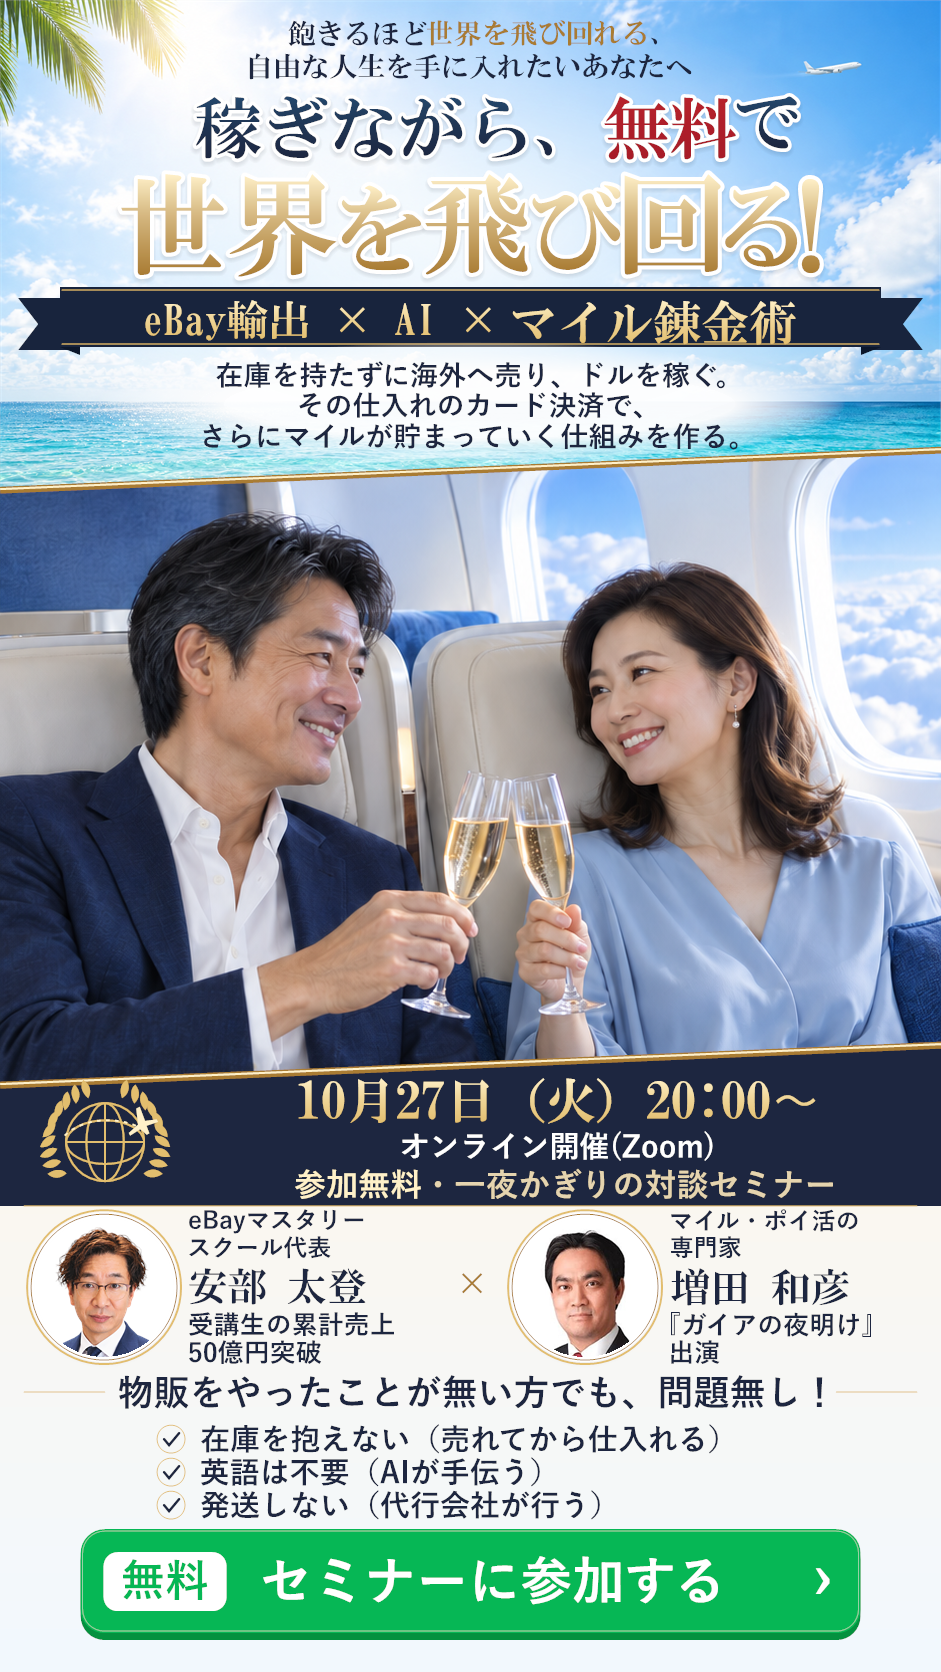
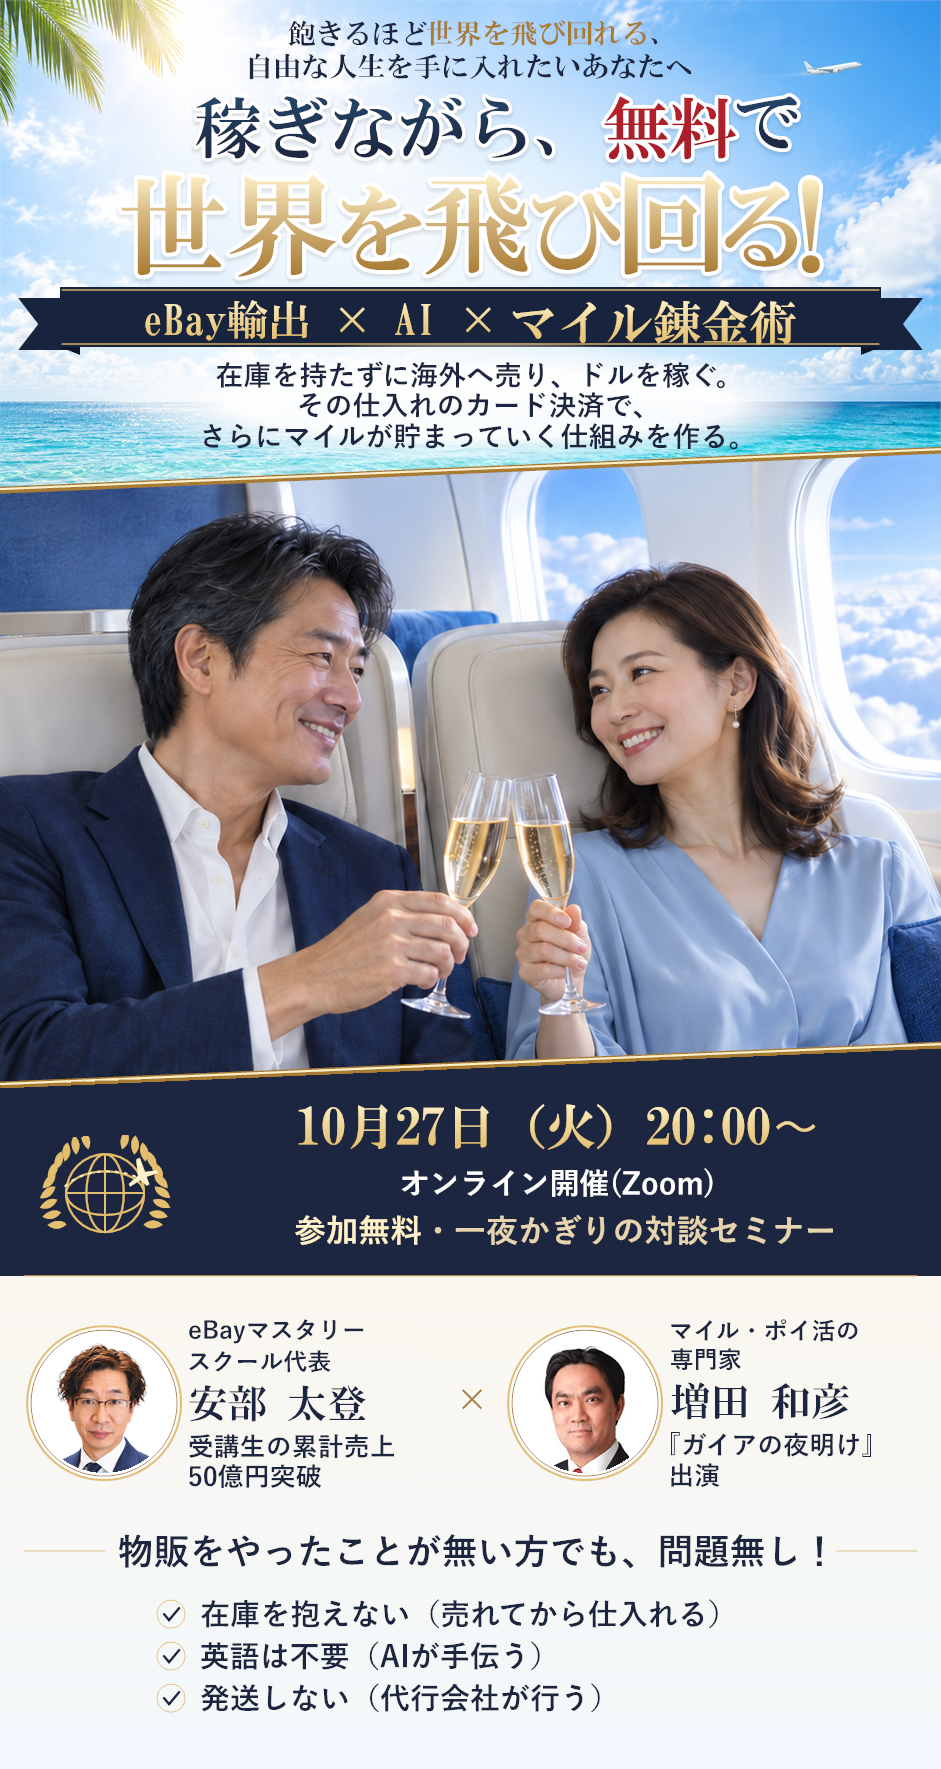
ebay-seminar-lp-2: FV下部の余白を広げ、FV内のボタンを削除・フォームのボタンをFVボタンと同じ幅に

diff --git a/ebay-seminar-lp-2/index.html b/ebay-seminar-lp-2/index.html
@@ -1,12 +1,12 @@
 <!doctype html><html lang="ja"><head><meta charset="utf-8"><meta name="viewport" content="width=device-width, initial-scale=1"><meta name="robots" content="noindex, nofollow"><title>稼ぎながら無料で世界を飛び回る！eBay輸出×AI×マイル錬金術</title><link rel="stylesheet" href="https://fonts.googleapis.com/css2?family=Shippori+Mincho+B1:wght@700;800&amp;family=Klee+One:wght@600&amp;family=Noto+Sans+JP:wght@400&amp;display=swap"><style>
 *{box-sizing:border-box}html{scroll-behavior:smooth}body{margin:0;color:#133858;background:#e8e5df;font-family:"Yu Gothic","Hiragino Kaku Gothic ProN",sans-serif}body.v2{background:#dfe5ec;color:#1d2640}body.v3{background:#e4eef1;color:#1b2f5b}
-.lp{width:100%;max-width:800px;margin:0 auto;background:#f2f8fd;padding-bottom:calc(110px + env(safe-area-inset-bottom,0px))}img{display:block;width:100%;height:auto}.hero{position:relative}.fv-link{position:absolute;display:block;border-radius:18px}.fv-link:focus-visible{outline:3px solid #133858;outline-offset:3px}
-.cta{background:#f2f8fd;padding:24px 16px 28px;scroll-margin-top:16px}.cta-card{padding:28px 16px 24px;background:linear-gradient(145deg,#fcf8f5,#f4f0e7);border:1px solid #c8a759;box-shadow:0 5px 18px #1338580b}.cta h2{font:700 22px/1.65 "Shippori Mincho B1","Yu Mincho","Hiragino Mincho ProN",serif;text-align:center;margin:0 0 14px;text-wrap:balance}.note{font-family:"Noto Sans JP","Yu Gothic","Hiragino Kaku Gothic ProN",sans-serif;font-weight:400;font-size:12px;line-height:1.85;margin:10px 0;overflow-wrap:break-word}.cta .intro,.cta .free{text-align:center}.cta form{margin:20px 0 14px}.cta input{display:block;width:100%;min-width:0;min-height:52px;padding:12px 14px;border:1px solid #899aaa;border-radius:4px;background:white;color:#133858;font:400 16px/1.5 "Yu Gothic",sans-serif}.cta input::placeholder{color:#657181;opacity:1}.cta input:focus-visible{outline:2px solid #169aa6;outline-offset:3px}.cta button{display:block;width:100%;max-width:390px;margin:16px auto 0;padding:0;border:0;background:transparent;cursor:pointer}.cta button:focus-visible,.floating-cta:focus-visible{outline:3px solid #169aa6;outline-offset:4px;border-radius:16px}
+.lp{width:100%;max-width:800px;margin:0 auto;background:#f2f8fd;padding-bottom:calc(110px + env(safe-area-inset-bottom,0px))}img{display:block;width:100%;height:auto}.hero{position:relative}
+.cta{background:#f2f8fd;padding:24px 16px 28px;scroll-margin-top:16px}.cta-card{padding:28px 16px 24px;background:linear-gradient(145deg,#fcf8f5,#f4f0e7);border:1px solid #c8a759;box-shadow:0 5px 18px #1338580b}.cta h2{font:700 22px/1.65 "Shippori Mincho B1","Yu Mincho","Hiragino Mincho ProN",serif;text-align:center;margin:0 0 14px;text-wrap:balance}.note{font-family:"Noto Sans JP","Yu Gothic","Hiragino Kaku Gothic ProN",sans-serif;font-weight:400;font-size:12px;line-height:1.85;margin:10px 0;overflow-wrap:break-word}.cta .intro,.cta .free{text-align:center}.cta form{margin:20px 0 14px}.cta input{display:block;width:100%;min-width:0;min-height:52px;padding:12px 14px;border:1px solid #899aaa;border-radius:4px;background:white;color:#133858;font:400 16px/1.5 "Yu Gothic",sans-serif}.cta input::placeholder{color:#657181;opacity:1}.cta input:focus-visible{outline:2px solid #169aa6;outline-offset:3px}.cta button{display:block;width:min(100%,calc(min(100vw,800px)*.85));margin:16px auto 0;padding:0;border:0;background:transparent;cursor:pointer}.cta button:focus-visible,.floating-cta:focus-visible{outline:3px solid #169aa6;outline-offset:4px;border-radius:16px}
 .v2 .cta-card{background:#1d2640;color:#fff1c9;border:3px double #e2be6e;box-shadow:0 5px 18px #1d264016}.v2 .cta h2{font-family:"Shippori Mincho B1","HG明朝E","Yu Mincho","Hiragino Mincho ProN",serif;font-weight:800;color:#fff1c9}.v2 .cta .note{color:#faf7f0}.v2 .legal-note{color:#1d2640}
 .v3 .cta-card{background:radial-gradient(ellipse at 4% 0%,#dceff8b0,transparent 45%),radial-gradient(ellipse at 95% 100%,#b8deec70,transparent 45%),#fbf6ee;border:1px solid #169aa66b;border-radius:18px 24px 20px 28px;box-shadow:0 0 16px 5px #169aa610}.v3 .cta h2{font-family:"Klee One","UD デジタル 教科書体 NK","Yu Mincho",serif;font-weight:600;color:#1b2f5b}.legal-note{padding:10px 24px 6px}.footer{padding:12px 22px 28px;text-align:center;font-size:12px;line-height:2.2;overflow-wrap:break-word}.footer a{color:inherit;text-underline-offset:4px}
 .floating-cta{position:fixed;left:50%;bottom:max(14px,env(safe-area-inset-bottom));transform:translateX(-50%);z-index:20;width:min(92vw,390px);display:block}.floating-cta[hidden]{display:none}
 @media(prefers-reduced-motion:reduce){html{scroll-behavior:auto}}
-</style></head><body class="v2"><main class="lp"><div class="hero"><img src="images/01-first-view-C5-03.png" alt="稼ぎながら、無料で世界を飛び回る！" width="941" height="1672" fetchpriority="high"><a class="fv-link" href="#form1" aria-label="無料でセミナーに参加する" style="left:8.820403825717323%;top:91.62679425837321%;width:82.35919234856536%;height:5.861244019138756%"></a></div><section class="cta" id="form1" aria-labelledby="heading1"><div class="cta-card"><h2 id="heading1" data-copy="CTA1-01">メールアドレスとLINE登録だけでOK！</h2><p class="note intro" data-copy="CTA1-02">※参加URLは、公式LINEでお届けします。</p><form action="#cta-link" method="get"><input data-copy="CTA1-03" type="email" name="email" required autocomplete="email" placeholder="メールアドレスを入力" aria-label="メールアドレスを入力"><button type="submit"><img src="images/cta-button_案2.png" alt="無料でセミナーに参加する" width="800" height="142" data-copy="CTA1-04"></button></form><p class="note" data-copy="CTA1-05">※ボタンを押すと、公式LINEの友だち追加の画面が開きます（パソコンの方はQRコードが表示されます）</p><p class="note free" data-copy="CTA1-06">※参加は無料です</p></div></section><img src="images/02-problem.png" alt="こんなこと、感じていませんか？" width="941" height="1417" class="section-image" decoding="async"><img src="images/03-numbers.png" alt="たとえば、毎月10万円をカードで払っても、貯まるのは1年で約12,000マイル。" width="941" height="1246" class="section-image" decoding="async"><img src="images/04-bridge.png" alt="円で買う側から、ドルで稼ぐ側へ。" width="941" height="1322" class="section-image" decoding="async"><img src="images/05-five-values.png" alt="たった1回の取引で生まれる、3つの価値" width="941" height="1142" class="section-image" decoding="async"><img src="images/06-walls-1.png" alt="物販は大変そう？そう思う方へ" width="941" height="1316" class="section-image" decoding="async"><img src="images/07-walls-2.png" alt="④ 出品が面倒" width="941" height="1009" class="section-image" decoding="async"><section class="cta" id="form2" aria-labelledby="heading2"><div class="cta-card"><h2 id="heading2" data-copy="CTA2-01">メールアドレスとLINE登録だけでOK！</h2><p class="note intro" data-copy="CTA2-02">※参加URLは、公式LINEでお届けします。</p><form action="#cta-link" method="get"><input data-copy="CTA2-03" type="email" name="email" required autocomplete="email" placeholder="メールアドレスを入力" aria-label="メールアドレスを入力"><button type="submit"><img src="images/cta-button_案2.png" alt="無料でセミナーに参加する" width="800" height="142" data-copy="CTA2-04"></button></form><p class="note" data-copy="CTA2-05">※ボタンを押すと、公式LINEの友だち追加の画面が開きます（パソコンの方はQRコードが表示されます）</p><p class="note free" data-copy="CTA2-06">※参加は無料です</p></div></section><img src="images/08-learn.png" alt="このセミナーで分かること" width="941" height="1564" class="section-image" decoding="async"><img src="images/09-for-whom.png" alt="こんな方のためのセミナーです" width="941" height="1355" class="section-image" decoding="async"><img src="images/10-instructor-1.png" alt="講師紹介" width="941" height="1527" class="section-image" decoding="async"><img src="images/11-instructor-2.png" alt="独自のAIシステムと実践型のサポート体制をつくり、未経験者でも段階的に成果を目指せる仕組みづくりに力を注いでいる。MBA（経営学修士）の知識を活かし、感覚だけに頼らず、データ分析・戦略・仕組み化の観点から指導している。" width="941" height="1199" class="section-image" decoding="async"><img src="images/12-instructor-masuda.png" alt="増田 和彦" width="941" height="1394" class="section-image" decoding="async"><img src="images/13-overview.png" alt="開催概要" width="941" height="1534" class="section-image" decoding="async"><img src="images/14-bonus.png" alt="参加特典" width="941" height="1458" class="section-image" decoding="async"><img src="images/15-steps.png" alt="参加までの流れ" width="941" height="1159" class="section-image" decoding="async"><section class="cta" id="form3" aria-labelledby="heading3"><div class="cta-card"><h2 id="heading3" data-copy="CTA3-01">メールアドレスとLINE登録だけでOK！</h2><p class="note intro" data-copy="CTA3-02">※参加URLは、公式LINEでお届けします。</p><form action="#cta-link" method="get"><input data-copy="CTA3-03" type="email" name="email" required autocomplete="email" placeholder="メールアドレスを入力" aria-label="メールアドレスを入力"><button type="submit"><img src="images/cta-button_案2.png" alt="無料でセミナーに参加する" width="800" height="142" data-copy="CTA3-04"></button></form><p class="note" data-copy="CTA3-05">※ボタンを押すと、公式LINEの友だち追加の画面が開きます（パソコンの方はQRコードが表示されます）</p><p class="note free" data-copy="CTA3-06">※参加は無料です</p></div></section><img src="images/16-faq-1.png" alt="よくある質問" width="941" height="1496" class="section-image" decoding="async"><img src="images/17-faq-2.png" alt="Q. セミナーで何かを買わされませんか？" width="941" height="1253" class="section-image" decoding="async"><img src="images/18-final-1.png" alt="最後に" width="941" height="1663" class="section-image" decoding="async"><img src="images/19-final-2.png" alt="まずは10月27日、話を聞くところから始めてみてください。" width="941" height="1001" class="section-image" decoding="async"><section class="cta" id="form4" aria-labelledby="heading4"><div class="cta-card"><h2 id="heading4" data-copy="CTA4-01">メールアドレスとLINE登録だけでOK！</h2><p class="note intro" data-copy="CTA4-02">※参加URLは、公式LINEでお届けします。</p><form action="#cta-link" method="get"><input data-copy="CTA4-03" type="email" name="email" required autocomplete="email" placeholder="メールアドレスを入力" aria-label="メールアドレスを入力"><button type="submit"><img src="images/cta-button_案2.png" alt="無料でセミナーに参加する" width="800" height="142" data-copy="CTA4-04"></button></form><p class="note" data-copy="CTA4-05">※ボタンを押すと、公式LINEの友だち追加の画面が開きます（パソコンの方はQRコードが表示されます）</p><p class="note free" data-copy="CTA4-06">※参加は無料です</p></div></section><p class="note legal-note" data-copy="NOTE-01">※ご紹介している実績は講師・受講生個人のものであり、成果を保証するものではありません。</p><footer class="footer" data-copy="FOOTER-01"><a href="#">特定商取引法に基づく表記</a>　｜　<a href="#">プライバシーポリシー</a></footer></main><a class="floating-cta" href="#form1" aria-label="無料でセミナーに参加する" hidden><img src="images/cta-button_案2.png" alt="" width="800" height="142" ></a><script>
+</style></head><body class="v2"><main class="lp"><div class="hero"><img src="images/01-first-view-C5-03.png" alt="稼ぎながら、無料で世界を飛び回る！" width="941" height="1769" fetchpriority="high"></div><section class="cta" id="form1" aria-labelledby="heading1"><div class="cta-card"><h2 id="heading1" data-copy="CTA1-01">メールアドレスとLINE登録だけでOK！</h2><p class="note intro" data-copy="CTA1-02">※参加URLは、公式LINEでお届けします。</p><form action="#cta-link" method="get"><input data-copy="CTA1-03" type="email" name="email" required autocomplete="email" placeholder="メールアドレスを入力" aria-label="メールアドレスを入力"><button type="submit"><img src="images/cta-button_案2.png" alt="無料でセミナーに参加する" width="800" height="142" data-copy="CTA1-04"></button></form><p class="note" data-copy="CTA1-05">※ボタンを押すと、公式LINEの友だち追加の画面が開きます（パソコンの方はQRコードが表示されます）</p><p class="note free" data-copy="CTA1-06">※参加は無料です</p></div></section><img src="images/02-problem.png" alt="こんなこと、感じていませんか？" width="941" height="1417" class="section-image" decoding="async"><img src="images/03-numbers.png" alt="たとえば、毎月10万円をカードで払っても、貯まるのは1年で約12,000マイル。" width="941" height="1246" class="section-image" decoding="async"><img src="images/04-bridge.png" alt="円で買う側から、ドルで稼ぐ側へ。" width="941" height="1322" class="section-image" decoding="async"><img src="images/05-five-values.png" alt="たった1回の取引で生まれる、3つの価値" width="941" height="1142" class="section-image" decoding="async"><img src="images/06-walls-1.png" alt="物販は大変そう？そう思う方へ" width="941" height="1316" class="section-image" decoding="async"><img src="images/07-walls-2.png" alt="④ 出品が面倒" width="941" height="1009" class="section-image" decoding="async"><section class="cta" id="form2" aria-labelledby="heading2"><div class="cta-card"><h2 id="heading2" data-copy="CTA2-01">メールアドレスとLINE登録だけでOK！</h2><p class="note intro" data-copy="CTA2-02">※参加URLは、公式LINEでお届けします。</p><form action="#cta-link" method="get"><input data-copy="CTA2-03" type="email" name="email" required autocomplete="email" placeholder="メールアドレスを入力" aria-label="メールアドレスを入力"><button type="submit"><img src="images/cta-button_案2.png" alt="無料でセミナーに参加する" width="800" height="142" data-copy="CTA2-04"></button></form><p class="note" data-copy="CTA2-05">※ボタンを押すと、公式LINEの友だち追加の画面が開きます（パソコンの方はQRコードが表示されます）</p><p class="note free" data-copy="CTA2-06">※参加は無料です</p></div></section><img src="images/08-learn.png" alt="このセミナーで分かること" width="941" height="1564" class="section-image" decoding="async"><img src="images/09-for-whom.png" alt="こんな方のためのセミナーです" width="941" height="1355" class="section-image" decoding="async"><img src="images/10-instructor-1.png" alt="講師紹介" width="941" height="1527" class="section-image" decoding="async"><img src="images/11-instructor-2.png" alt="独自のAIシステムと実践型のサポート体制をつくり、未経験者でも段階的に成果を目指せる仕組みづくりに力を注いでいる。MBA（経営学修士）の知識を活かし、感覚だけに頼らず、データ分析・戦略・仕組み化の観点から指導している。" width="941" height="1199" class="section-image" decoding="async"><img src="images/12-instructor-masuda.png" alt="増田 和彦" width="941" height="1394" class="section-image" decoding="async"><img src="images/13-overview.png" alt="開催概要" width="941" height="1534" class="section-image" decoding="async"><img src="images/14-bonus.png" alt="参加特典" width="941" height="1458" class="section-image" decoding="async"><img src="images/15-steps.png" alt="参加までの流れ" width="941" height="1159" class="section-image" decoding="async"><section class="cta" id="form3" aria-labelledby="heading3"><div class="cta-card"><h2 id="heading3" data-copy="CTA3-01">メールアドレスとLINE登録だけでOK！</h2><p class="note intro" data-copy="CTA3-02">※参加URLは、公式LINEでお届けします。</p><form action="#cta-link" method="get"><input data-copy="CTA3-03" type="email" name="email" required autocomplete="email" placeholder="メールアドレスを入力" aria-label="メールアドレスを入力"><button type="submit"><img src="images/cta-button_案2.png" alt="無料でセミナーに参加する" width="800" height="142" data-copy="CTA3-04"></button></form><p class="note" data-copy="CTA3-05">※ボタンを押すと、公式LINEの友だち追加の画面が開きます（パソコンの方はQRコードが表示されます）</p><p class="note free" data-copy="CTA3-06">※参加は無料です</p></div></section><img src="images/16-faq-1.png" alt="よくある質問" width="941" height="1496" class="section-image" decoding="async"><img src="images/17-faq-2.png" alt="Q. セミナーで何かを買わされませんか？" width="941" height="1253" class="section-image" decoding="async"><img src="images/18-final-1.png" alt="最後に" width="941" height="1663" class="section-image" decoding="async"><img src="images/19-final-2.png" alt="まずは10月27日、話を聞くところから始めてみてください。" width="941" height="1001" class="section-image" decoding="async"><section class="cta" id="form4" aria-labelledby="heading4"><div class="cta-card"><h2 id="heading4" data-copy="CTA4-01">メールアドレスとLINE登録だけでOK！</h2><p class="note intro" data-copy="CTA4-02">※参加URLは、公式LINEでお届けします。</p><form action="#cta-link" method="get"><input data-copy="CTA4-03" type="email" name="email" required autocomplete="email" placeholder="メールアドレスを入力" aria-label="メールアドレスを入力"><button type="submit"><img src="images/cta-button_案2.png" alt="無料でセミナーに参加する" width="800" height="142" data-copy="CTA4-04"></button></form><p class="note" data-copy="CTA4-05">※ボタンを押すと、公式LINEの友だち追加の画面が開きます（パソコンの方はQRコードが表示されます）</p><p class="note free" data-copy="CTA4-06">※参加は無料です</p></div></section><p class="note legal-note" data-copy="NOTE-01">※ご紹介している実績は講師・受講生個人のものであり、成果を保証するものではありません。</p><footer class="footer" data-copy="FOOTER-01"><a href="#">特定商取引法に基づく表記</a>　｜　<a href="#">プライバシーポリシー</a></footer></main><a class="floating-cta" href="#form1" aria-label="無料でセミナーに参加する" hidden><img src="images/cta-button_案2.png" alt="" width="800" height="142" ></a><script>
 (()=>{
  const sections=[...document.querySelectorAll('.cta')], floating=document.querySelector('.floating-cta');
  document.querySelectorAll('form').forEach(form=>form.addEventListener('submit',event=>event.preventDefault()));
